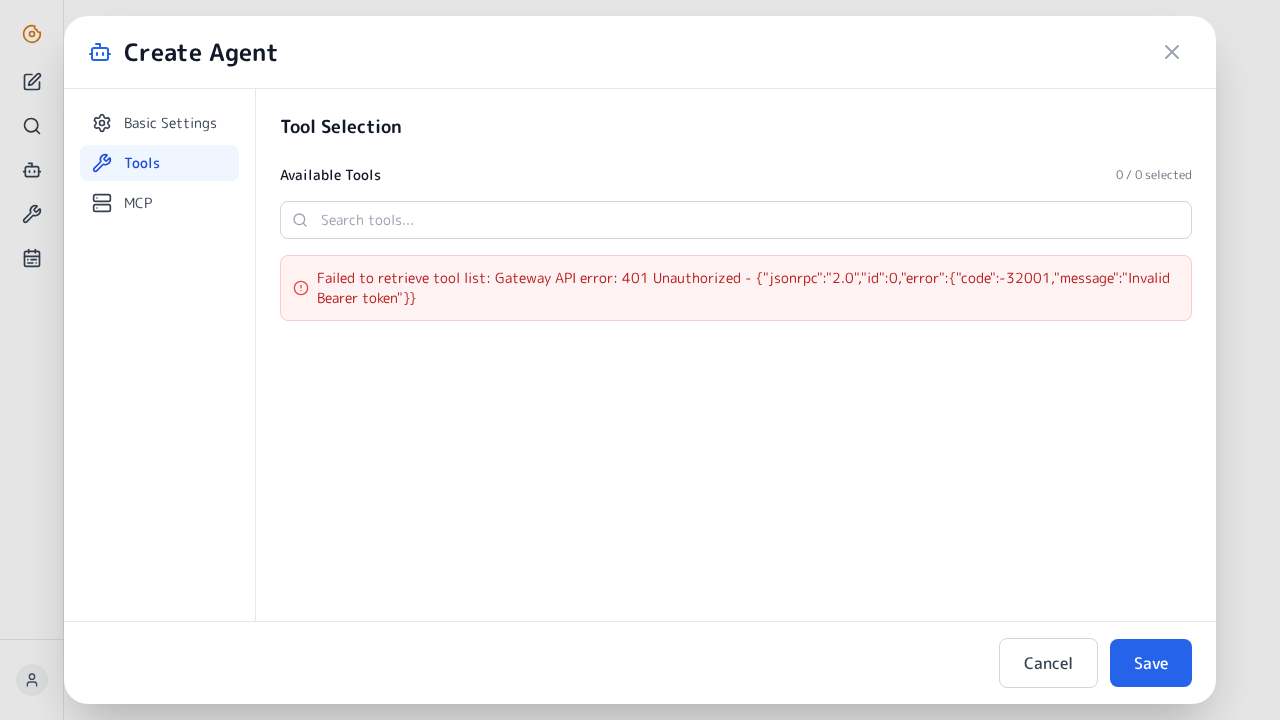
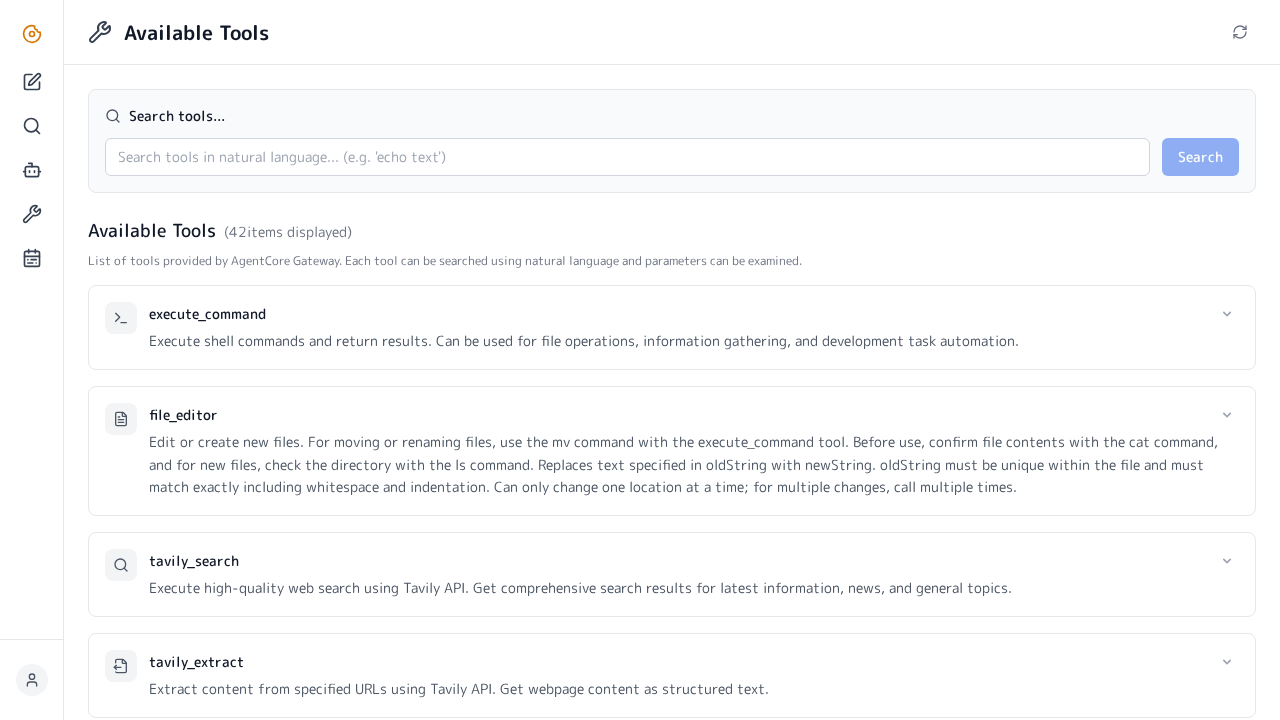
Add warning about tool list loading issue
- Added troubleshooting tips when tool list doesn't appear
- Updated tools screenshot

diff --git a/index.html b/index.html
@@ -682,6 +682,17 @@
             </ul>
         </div>
         
+        <div class="warning">
+            <p class="tip-title">⚠ ツール一覧が表示されない場合</p>
+            <p>Toolsタブを開いてもツール一覧が表示されない場合は、以下をお試しください：</p>
+            <ul>
+                <li>ページをリロード（F5キーまたはブラウザの更新ボタン）してから再度お試しください</li>
+                <li>一度ログアウトしてから再度ログインしてください</li>
+                <li>しばらく待ってからToolsタブを再度クリックしてください</li>
+            </ul>
+            <p>ツール一覧が読み込まれていない状態でエージェントを保存すると、ツールが正しく設定されない場合があります。</p>
+        </div>
+        
         <h5>主要なツールカテゴリ</h5>
         
         <table>
